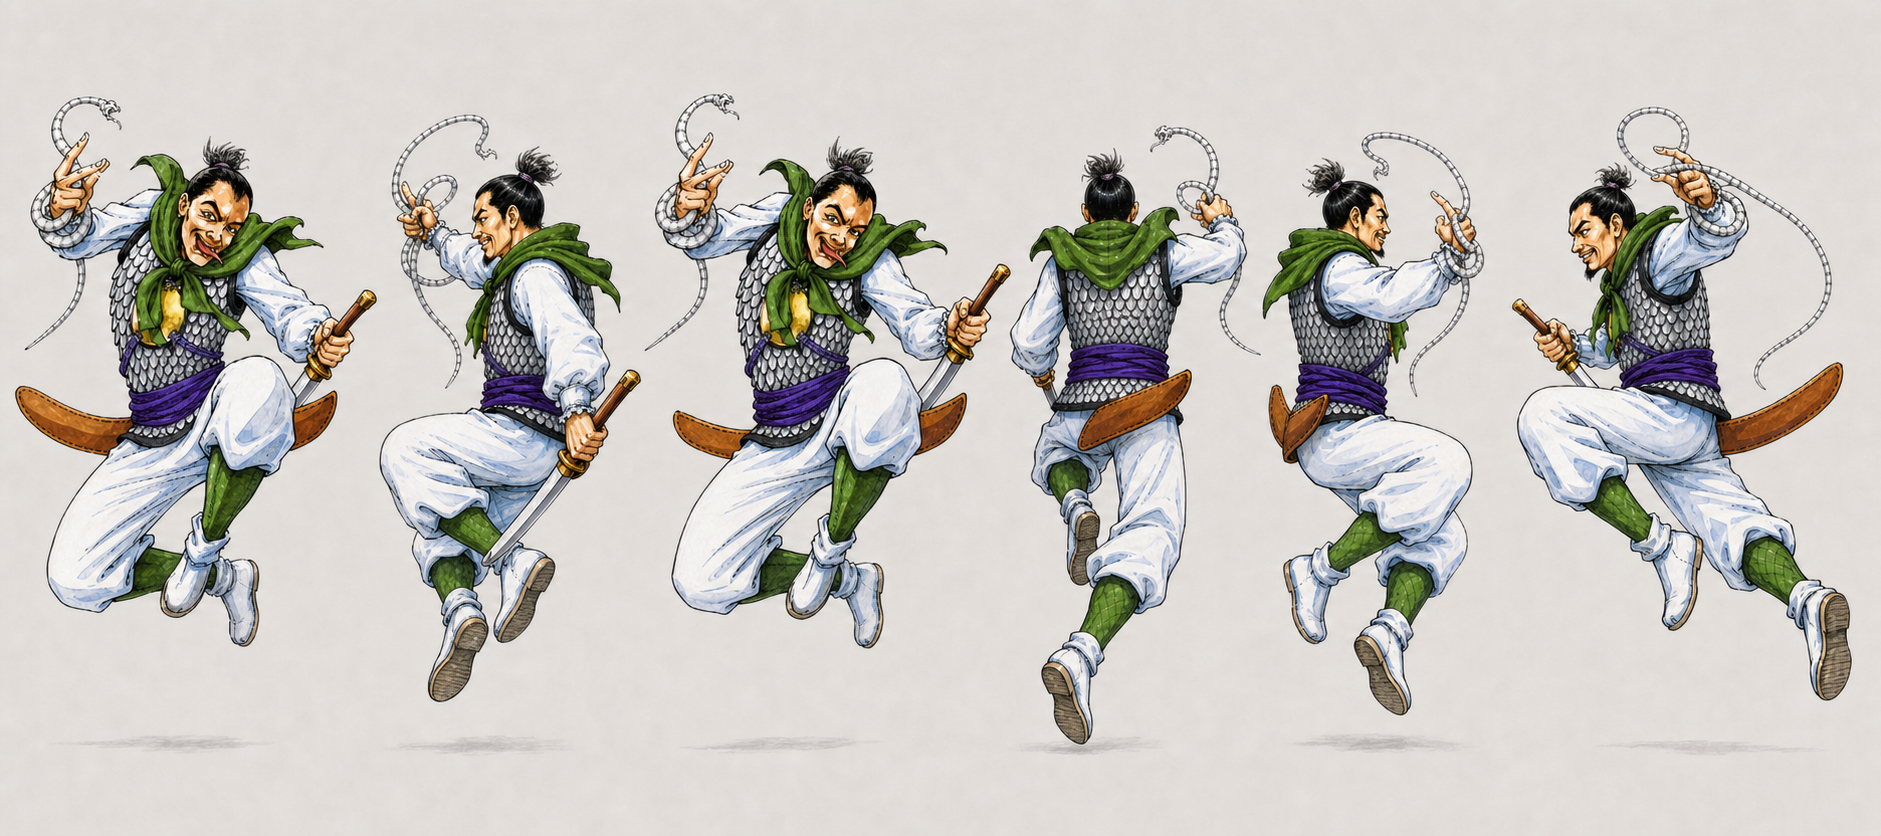
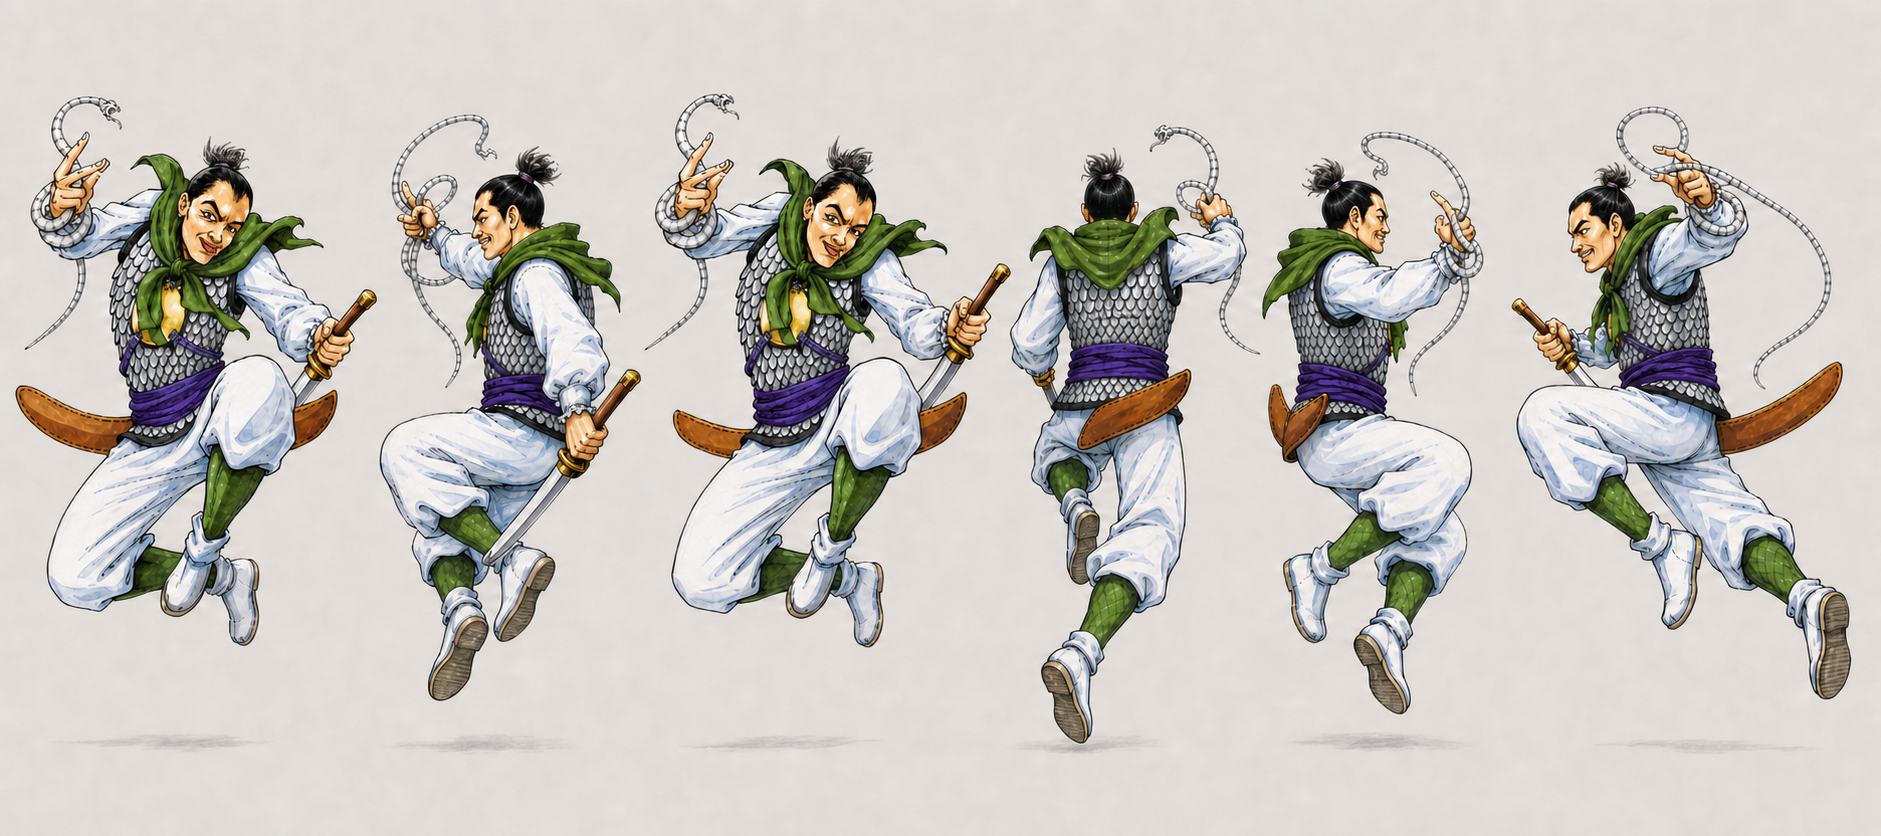
fix(073): 修正角色无胡须设定与设定图
根据原图将无胡须锁定为已确认身份特征。\n\n同步返修中立六视图、原画姿态六视图和头部四视图，并保留旧版备份。

diff --git a/character-model-sheets/characters/073/review-notes.md b/character-model-sheets/characters/073/review-notes.md
@@ -24,7 +24,13 @@
 ## 2026-08-21 头部四视图补充
 
 - [x] 已生成 `head-sheet.png`，严格按正面、纯后脑、角色自身左侧面、角色自身右侧面排列。
-- [x] 四张保持同一身份、颅骨体积、发型／头戴、胡须、颈部尺度、裁切、光照和固定复古手绘画风。
+- [x] 四张保持同一身份、颅骨体积、发型／头戴、无胡须面部、颈部尺度、裁切、光照和固定复古手绘画风。
 - [x] 纯后脑没有出现面部；左右侧面来自角色不同解剖侧，未用表情变化代替视角变化。
 - [x] 原图未展示的后脑与连接结构继续按规格中的 `inferred`／`unknown` 克制处理，不宣称为原作事实。
 - 状态保持 `generated`，等待用户批准。
+
+## 2026-08-22 无胡须纠正
+
+- [x] 用户确认原图没有胡须；原图可见的上唇、嘴角、面颊和下巴均为光洁皮肤。
+- [x] 规格与人物、原画姿态、头部、武器提示词已删除错误的短髭与下巴短须描述，并将“无胡须”锁定为 `confirmed`。
+- [x] 中立六视图、原画姿态六视图和头部四视图均已局部返修；除胡须区域外保持原有身份、服装、姿态、视角、版式和画风不变。
